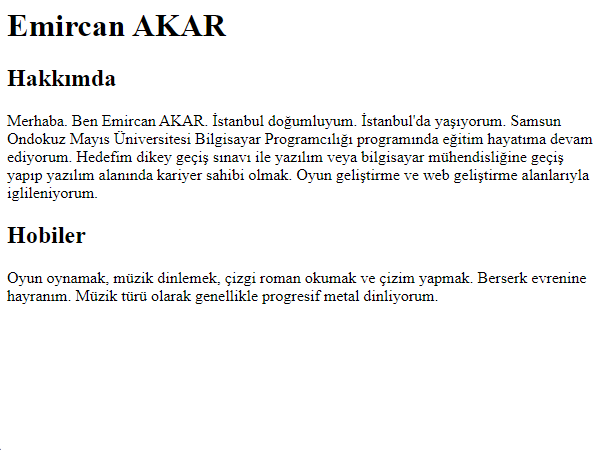
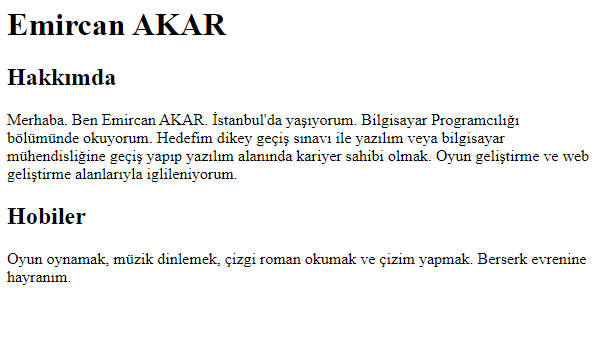
final2

diff --git a/index.html b/index.html
@@ -3,15 +3,14 @@
 <!-- hakkimda -->
 <h2>Hakkımda</h2>
 <p>
-  Merhaba. Ben Emircan AKAR. İstanbul doğumluyum. İstanbul'da yaşıyorum. Samsun
-  Ondokuz Mayıs Üniversitesi Bilgisayar Programcılığı programında eğitim
-  hayatıma devam ediyorum. Hedefim dikey geçiş sınavı ile yazılım veya
-  bilgisayar mühendisliğine geçiş yapıp yazılım alanında kariyer sahibi olmak.
-  Oyun geliştirme ve web geliştirme alanlarıyla iglileniyorum.
+  Merhaba. Ben Emircan AKAR. İstanbul'da yaşıyorum. Bilgisayar Programcılığı
+  bölümünde okuyorum. Hedefim dikey geçiş sınavı ile yazılım veya bilgisayar
+  mühendisliğine geçiş yapıp yazılım alanında kariyer sahibi olmak. Oyun
+  geliştirme ve web geliştirme alanlarıyla iglileniyorum.
 </p>
 <!-- hobiler -->
 <h2>Hobiler</h2>
 <p>
   Oyun oynamak, müzik dinlemek, çizgi roman okumak ve çizim yapmak. Berserk
-  evrenine hayranım. Müzik türü olarak genellikle progresif metal dinliyorum.
+  evrenine hayranım.
 </p>
